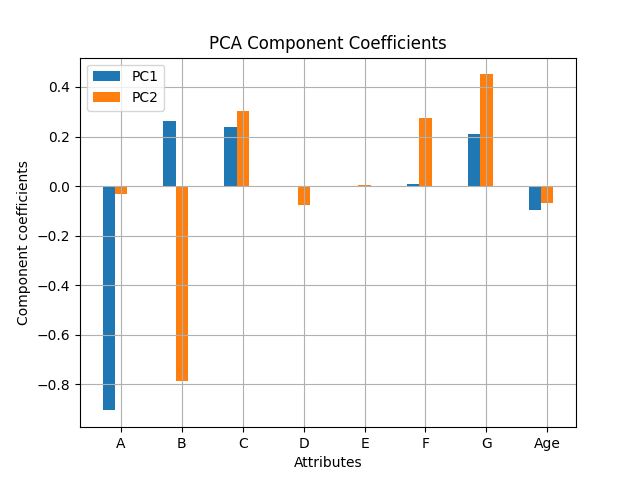
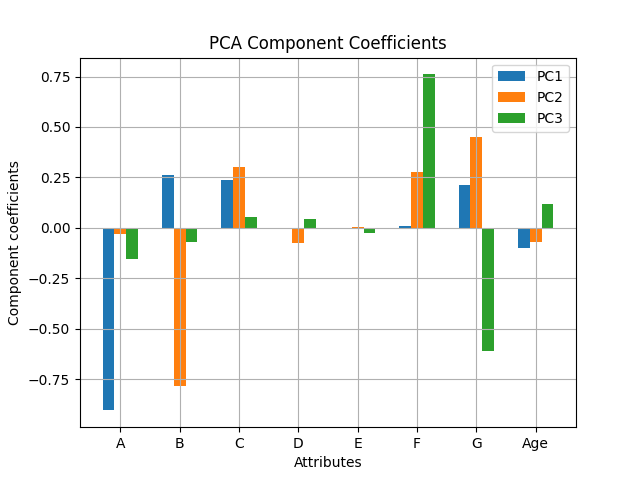
Added PC3 to PCA Component Coefficients Plot

diff --git a/visualization.py b/visualization.py
@@ -59,7 +59,7 @@ def find_coeff(normalized_df, attribute_labels):
     V = Vt.T
     N, M = normalized_df.shape
 
-    pcs = [0, 1]
+    pcs = [0, 1, 2]
     legendStrs = ["PC" + str(e + 1) for e in pcs]
     bw = 0.2
     r = np.arange(1, M + 1)
